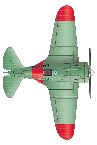
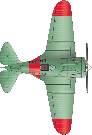
falangisten sprite + settings refactor

Changed region(s): [[0.0, 0.0, 1.0, 1.0], [0.5652, 0.4741, 0.587, 0.5037]]

diff --git a/settings.py b/settings.py
@@ -7,7 +7,7 @@ SIMULATION_RUNTIME = 1000000 # in seconds
 USE_GUI = True
 PLANE_POS_SCALE = 2
 
-PLANE_POLIKARPOV_I_16 = {
+PLANE_I_16_REPUBLICAN = {
     "SPRITE" : "assets/facing_right.png",
     "SPRITE_TOP" : "assets/top_view.png",
     "MASS" : 1200,
@@ -23,7 +23,26 @@ PLANE_POLIKARPOV_I_16 = {
     "INIT_PITCH" : 0, 
     "INIT_V" : (100.0, 0.0),
     "INIT_POS" : (SCREEN_WIDTH / 2, 200),
-    "SIZE" : (24, 17)  # 6.13 : 3.25 irl
+    "SIZE" : (24, 12)  # 6.13 : 3.25 irl
+}
+
+PLANE_I_16_FALANGIST = {
+    "SPRITE" : "assets/i16_falangist.png",
+    "SPRITE_TOP" : "assets/i16_falangist_top.png",
+    "MASS" : 1200,
+    "ENGINE_FORCE" : 300,
+    "AGILITY" : 100,
+    "C_DRAG" : 0.6,
+    "C_LIFT" : 100,
+    "AOA_CRIT_LOW" : (-15.0, -0.95),
+    "AOA_CRIT_HIGH" : (19.0, 1.4),
+    "CL0" : 0.32,
+    "CD_MIN" : 0.5,
+    "INIT_THROTTLE" : 100,
+    "INIT_PITCH" : 0,
+    "INIT_V" : (100.0, 0.0),
+    "INIT_POS" : (SCREEN_WIDTH / 2, 200),
+    "SIZE" : (24, 12)  # 6.13 : 3.25 irl
 }
 
 PLANE_MESSERSCHMIDT_109E = {

diff --git a/main.py b/main.py
@@ -23,8 +23,8 @@ dt = 0
 total_time = 0
 fov_radius = 150
 
-plane_1_data = settings.PLANE_MESSERSCHMIDT_109E
-plane_2_data = settings.PLANE_POLIKARPOV_I_16
+plane_1_data = settings.PLANE_I_16_FALANGIST
+plane_2_data = settings.PLANE_I_16_REPUBLICAN
 agent1 = Agent(
     settings.SCREEN_RESOLUTION,
     plane_2_data["SPRITE"],
